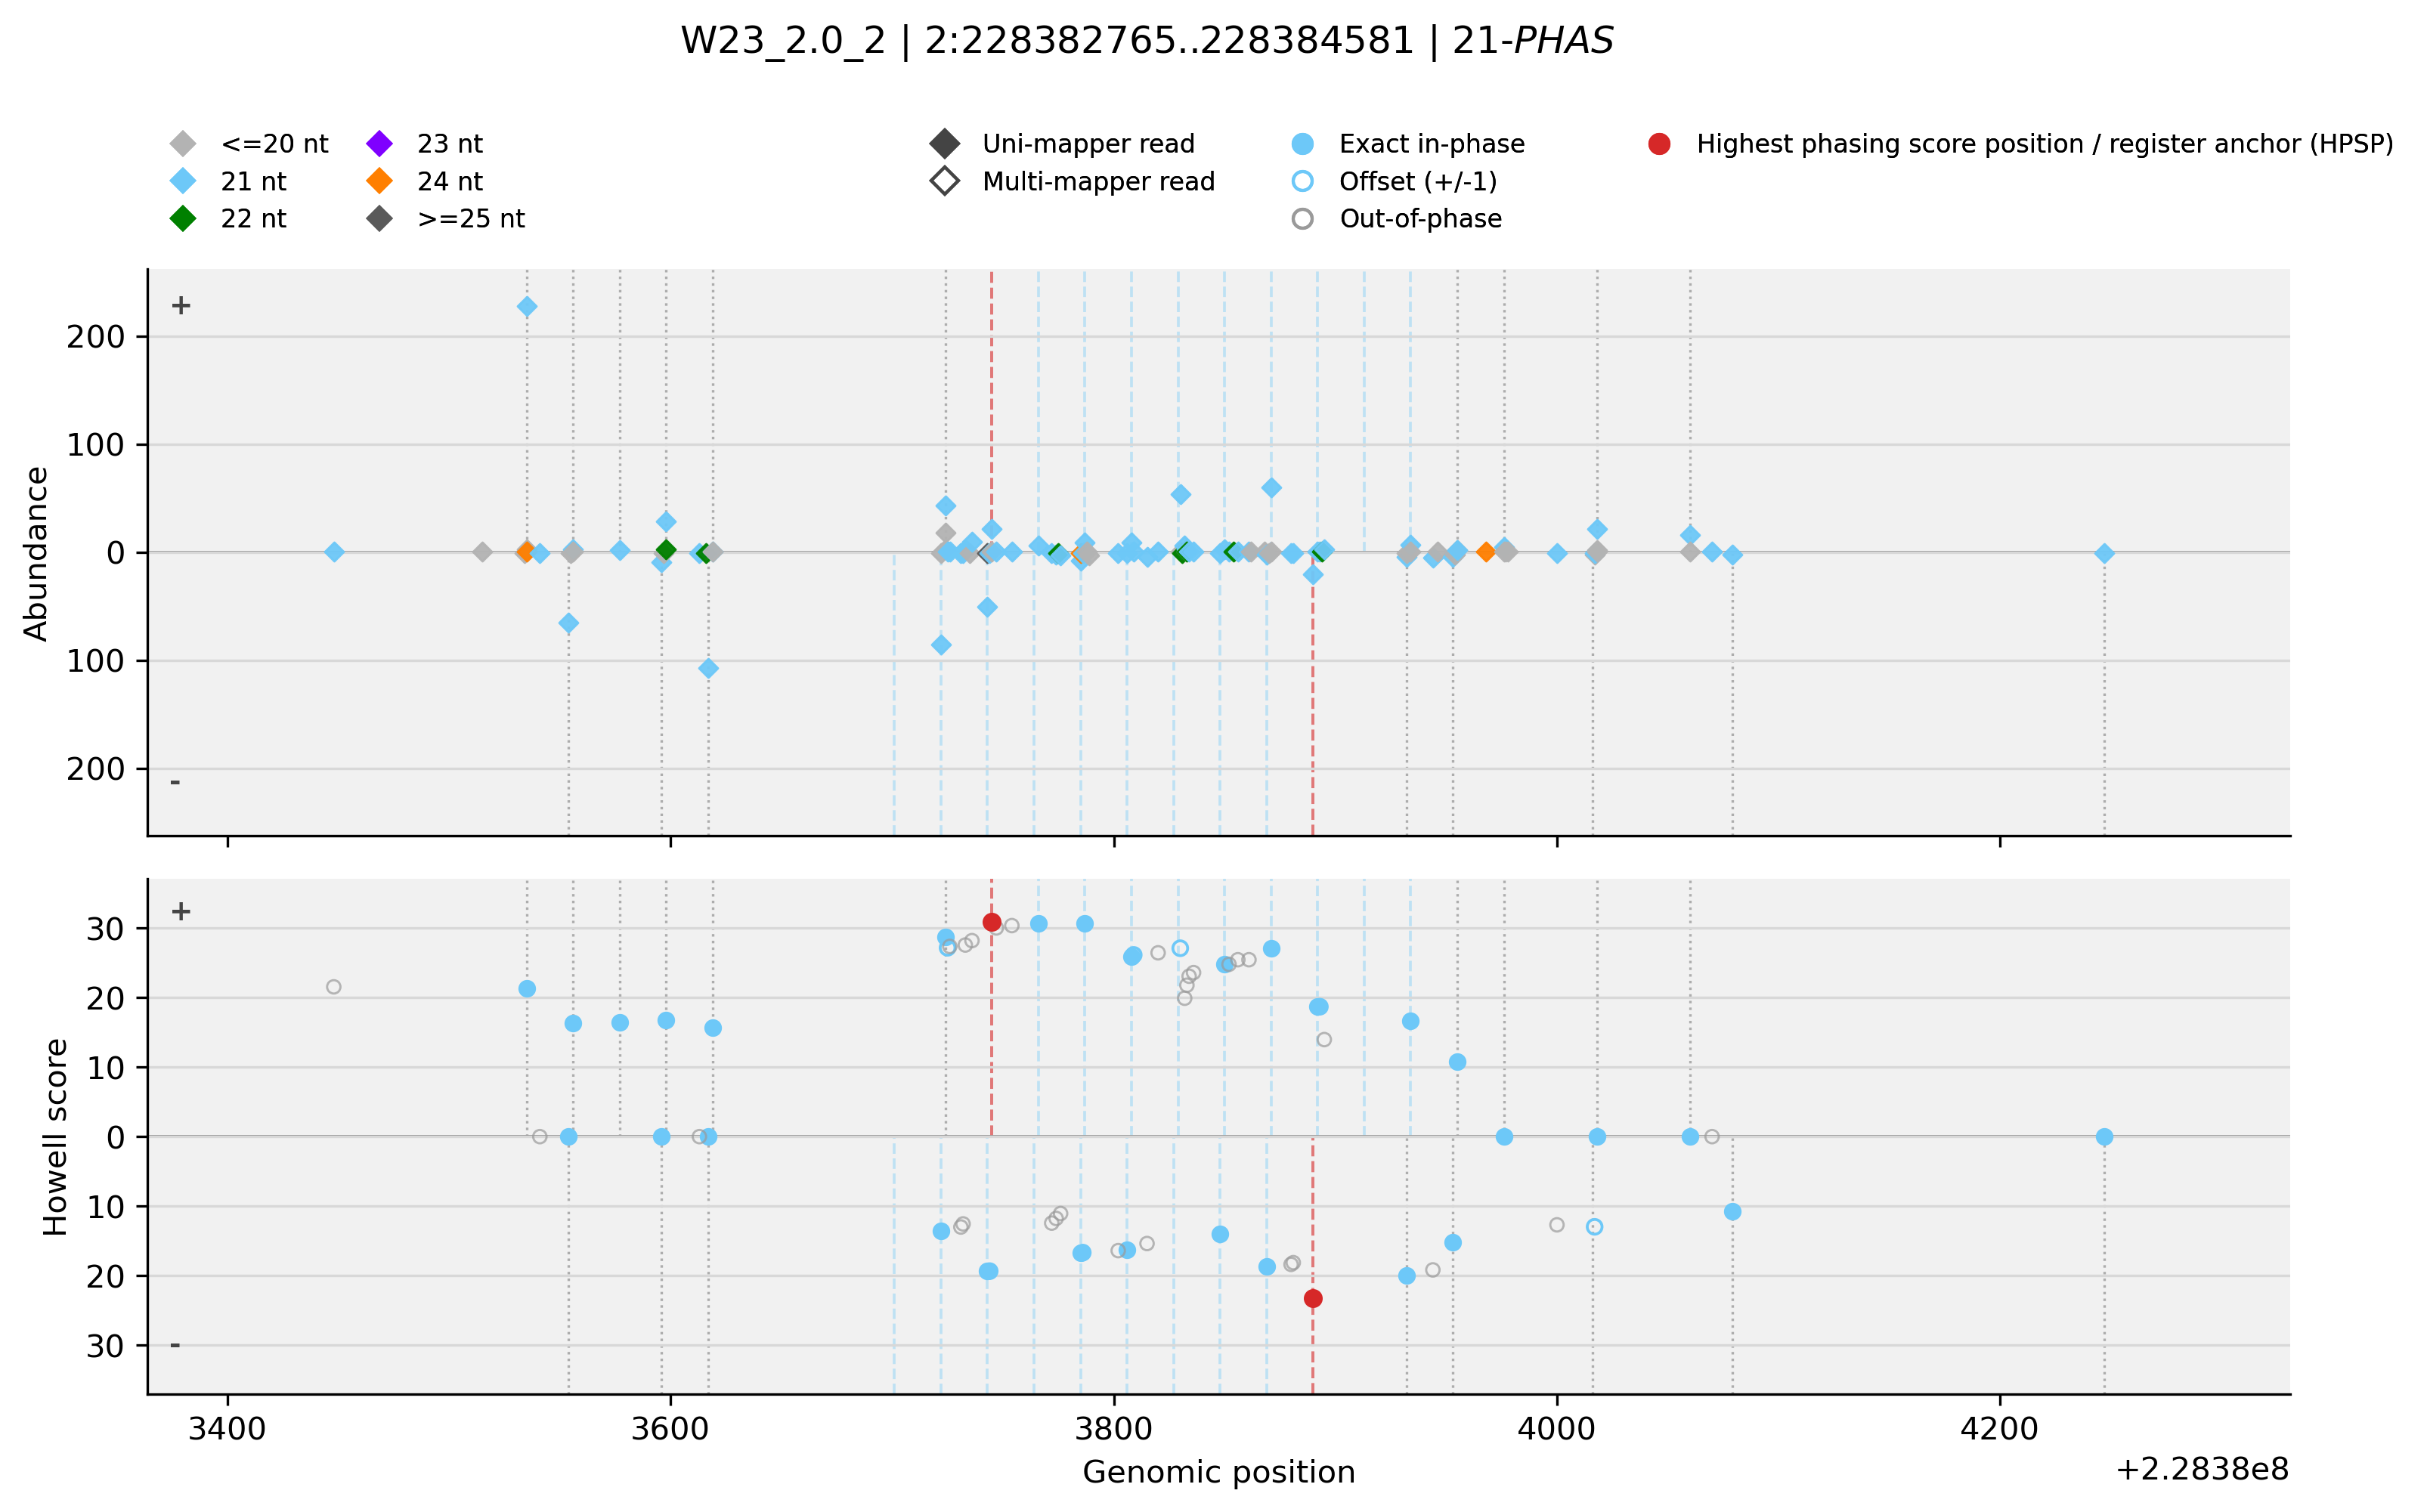
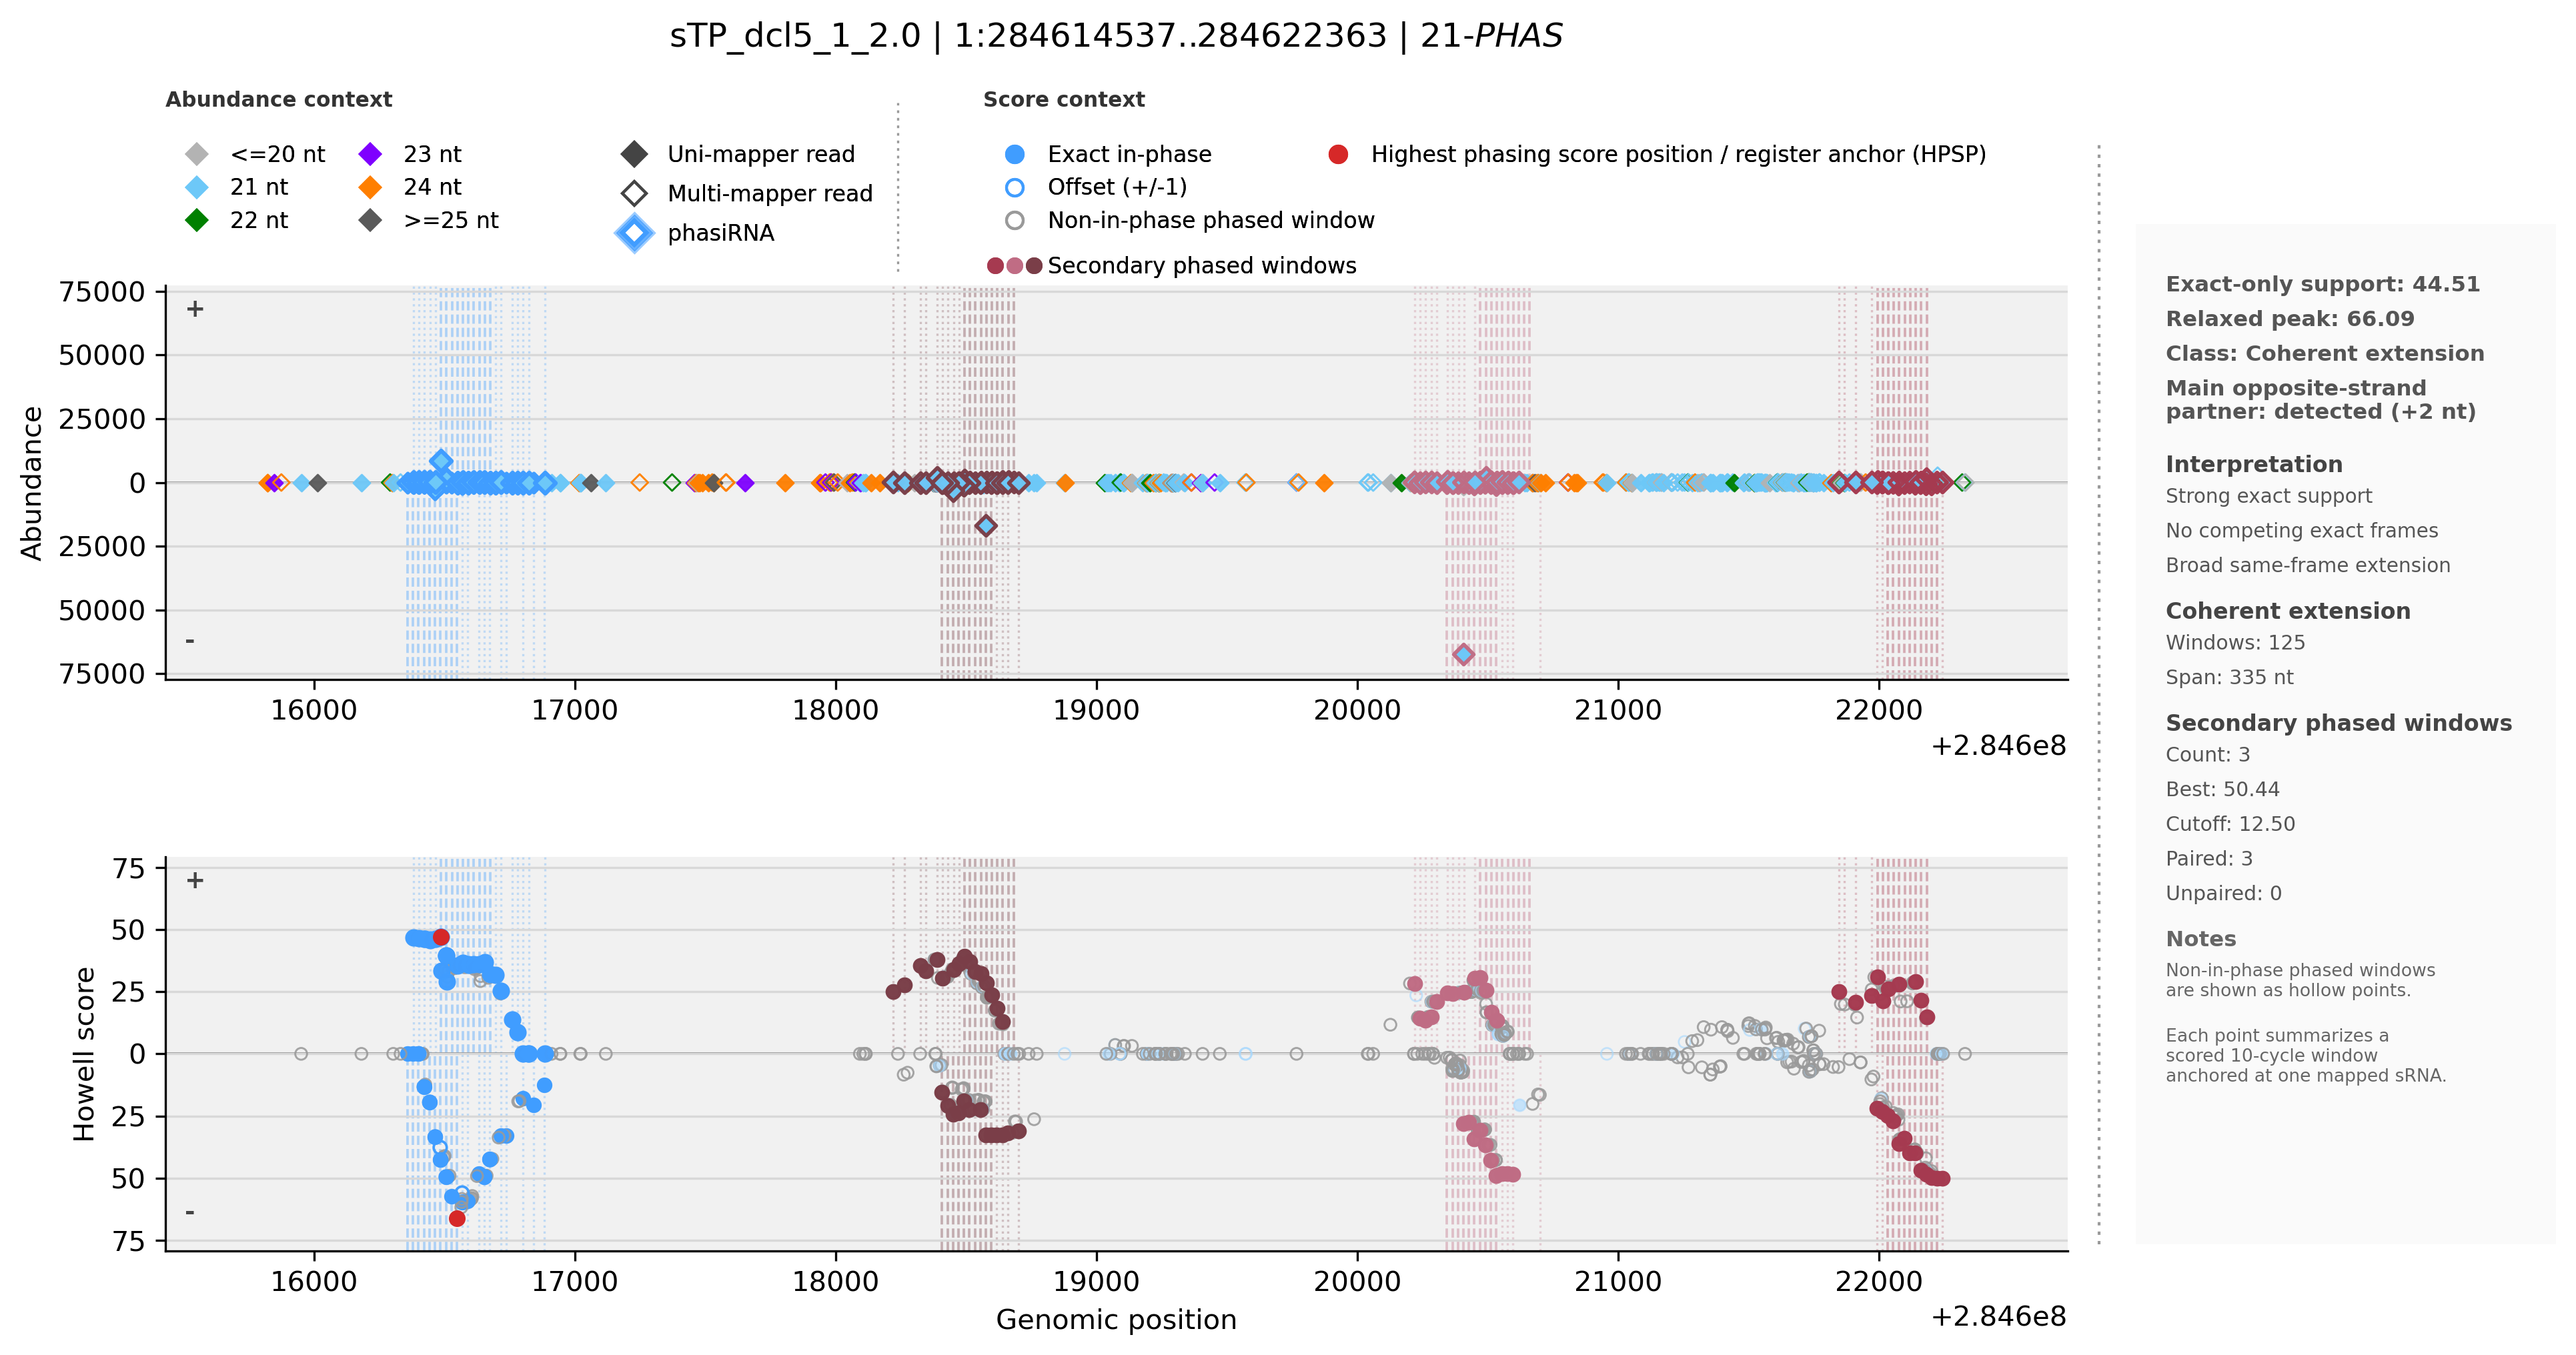
Document PHAS locus plot interpretation and phasiRNA unit exports

diff --git a/README.md b/README.md
@@ -185,35 +185,49 @@ In the filenames below, `{method}` is the classifier used for the run, currently
 8. **Individual *PHAS* locus diagnostic plots**  
    Directory: **`{phase}_{method}_PHAS_locus_plots/`**  
    Phasis writes one PNG per final *PHAS* call, named as **`{alib}__{identifier}.png`**. Each plot has two panels for the same locus:
-   - the top panel shows strand-separated read abundance, colored by sRNA length and styled as filled/open diamonds for uni- and multi-mappers
-   - the bottom panel shows the relaxed Howell-score trace on both strands, including the exact/offset register pattern and the highest phasing score position (HPSP)
-   - the **phase-colored vertical bars** mark the 10-cycle register window that actually contributes to the Howell score around the HPSP for that strand
-   - the **darker extension bars** mark additional positions outside that 10-cycle window that still map to the same phased register
-   - the **red vertical bar** marks the HPSP register anchor itself
+   - the top panel is the **abundance context**. It shows strand-separated read abundance. Diamonds are colored by sRNA length, filled diamonds are uni-mappers, and open diamonds are multi-mappers.
+   - the bottom panel is the **score context**. It shows the scored 10-cycle phasing windows anchored at mapped phase-length sRNAs.
+   - the phase-colored **phasiRNA halo** in the top panel marks reads that were assigned to a called phased window. The halo color follows the analyzed phase length, so a 21-*PHAS* call and a 24-*PHAS* call use different phase-family colors.
+   - in the score context, strong phase-family blue is reserved for the main phased unit and its accepted opposite-strand main partner. Secondary phased windows use separate colors so they can be interpreted as additional promoted phased units rather than as part of the main register.
+   - hollow grey score points are nearby context windows that were scored but were not promoted into the main or secondary phased units.
+   - the red point marks the highest phasing score position / register anchor (HPSP).
 
-   These figures are meant to help users visually inspect the phasing register at each called locus and judge whether a run should be made more or less restrictive.
+   These figures are meant to help users visually inspect the phasing register at each called locus, confirm whether an opposite-strand partner was accepted, and distinguish the main phased unit from secondary or overlapping phased windows.
 
    Example:
 
    ![Example individual PHAS locus plot](docs/images/phas_locus_plot_example.png)
 
+   In the example above, the blue window is the main phased unit. The right sidebar reports strong exact support, a coherent extension, and an accepted main opposite-strand partner with a normalized `+2 nt` shift. The rose-colored blocks are secondary phased windows: they are strong enough to be promoted and are shown with their own guides, halos, and score points rather than being folded into the main blue register. The sidebar summarizes these as `Secondary phased windows` and reports how many were paired across strands.
+
+   The right sidebar is a compact interpretation guide:
+   - `Exact-only support` is the stricter support score for reads exactly on the phased register.
+   - `Relaxed peak` is the best relaxed score, allowing the broader context used to find candidate phased structure.
+   - `Main opposite-strand partner` reports whether a canonical opposite-strand partner was accepted for the main unit.
+   - `Coherent extension` reports how many scored windows extend the same main register and the span covered by that extension.
+   - `Secondary phased windows` and `Overlapping alternative windows` report promoted additional phased units. `Paired` means both strands were promoted for that unit; `Unpaired` means only one promoted strand was retained.
+
 9. **Per-locus phased-register phasiRNA table**  
    Filename: **`{phase}_{method}_phasiRNAs.tsv`**  
-   This TSV contains one row per exported phase-length phasiRNA that supports a final *PHAS* locus in the plotted phased register. It records the observed read position, the expected register position, the support class (`core_exact`, `core_offset`, or `extended_exact`), the abundance, the sequence, and the mapper count when available.
+   This TSV contains one row per exported phase-length phasiRNA that supports a final *PHAS* locus in the plotted phased register. It records the observed read position, the expected register position, the support class (`core_exact`, `core_offset`, or `extended_exact`), the abundance, the sequence, the mapper count when available, and the phased-window unit assignment.
 
    Small synthetic 24-nt example:
 
-   | identifier | cID | alib | phase | strand | observed_pos | expected_register_pos | register_class | abun | tag_seq | hits |
-   | --- | --- | --- | --- | --- | --- | --- | --- | --- | --- | --- |
-   | chr1:100..196 | cluster_1 | libA | 24 | w | 100 | 100 | core_exact | 53 | ATCG... | 1 |
-   | chr1:100..196 | cluster_1 | libA | 24 | w | 125 | 124 | core_offset | 31 | TGCA... | 1 |
-   | chr1:100..196 | cluster_1 | libA | 24 | w | 172 | 172 | extended_exact | 18 | GATC... | 2 |
+   | identifier | cID | alib | phase | strand | observed_pos | expected_register_pos | register_class | window_unit_id | window_unit_role | window_unit_rank | window_unit_shift_nt | abun | tag_seq | hits |
+   | --- | --- | --- | --- | --- | --- | --- | --- | --- | --- | --- | --- | --- | --- | --- |
+   | chr1:100..196 | cluster_1 | libA | 24 | w | 100 | 100 | core_exact | unit_main | main_hpsp | 0 | 0 | 53 | ATCG... | 1 |
+   | chr1:100..196 | cluster_1 | libA | 24 | w | 125 | 124 | core_offset | unit_main | main_extension | 0 | 0 | 31 | TGCA... | 1 |
+   | chr1:100..196 | cluster_1 | libA | 24 | c | 291 | 291 | core_exact | unit_main | main_partner | 0 | +2 | 44 | CTAG... | 1 |
+   | chr1:100..196 | cluster_1 | libA | 24 | w | 172 | 172 | extended_exact | unit_secondary_1 | other_local_peak | 1 | NA | 18 | GATC... | 2 |
 
    How to read these columns:
    - `expected_register_pos` is the phased genomic register position that PHASIS is tracking for that row.
    - `core_exact` means the read mapped exactly onto one of the 10-cycle register positions used in the Howell-score quantification window.
    - `core_offset` means there was no exact phase-length read at that core register position, so PHASIS exported the winning `+/-1` offset read instead. In the example above, the expected phased position is `124`, but the exported read was observed at `125`.
    - `extended_exact` means the read mapped exactly to the same phased register outside the core 10-cycle Howell window. These are the reads that correspond to the darker extension guide lines in the locus plot.
+   - `window_unit_id` groups rows by reconstructed phased unit. `unit_main` is the primary phased unit; `unit_secondary_1`, `unit_secondary_2`, and so on are promoted secondary or overlapping phased windows.
+   - `window_unit_role` describes how the row was used: `main_hpsp`, `main_partner`, `main_extension`, `other_local_peak`, or `overlapping_alternative`.
+   - `window_unit_rank` orders promoted secondary units within the locus, and `window_unit_shift_nt` reports the normalized partner shift for accepted main partners or the shift assigned to promoted secondary units when available.
    - Offset-only reads are not exported for the extended register.
    - A locus can have more than one exported row for the same `expected_register_pos` if multiple phase-length reads with different sequences map exactly at that same phased position.
 